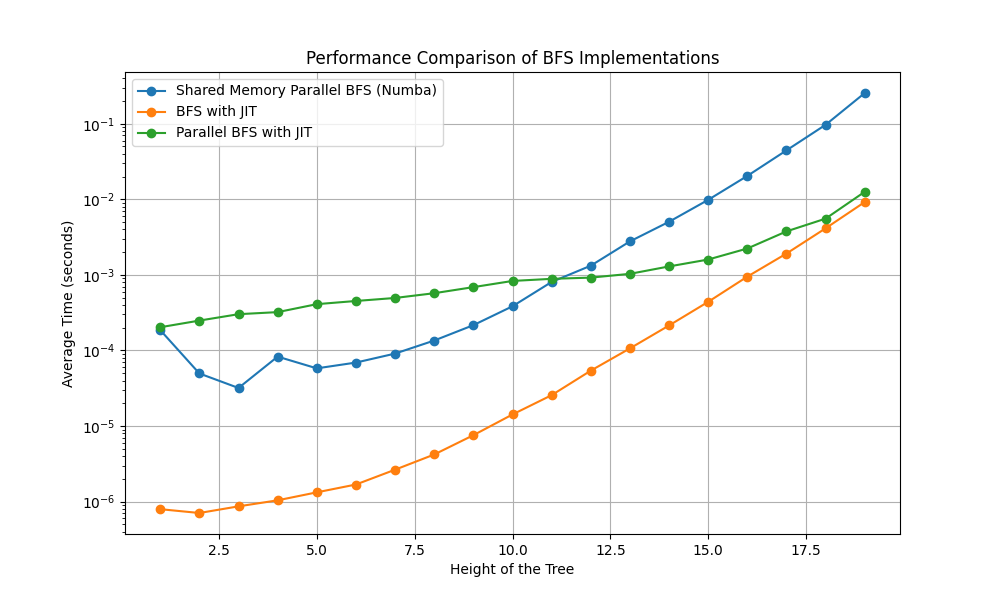
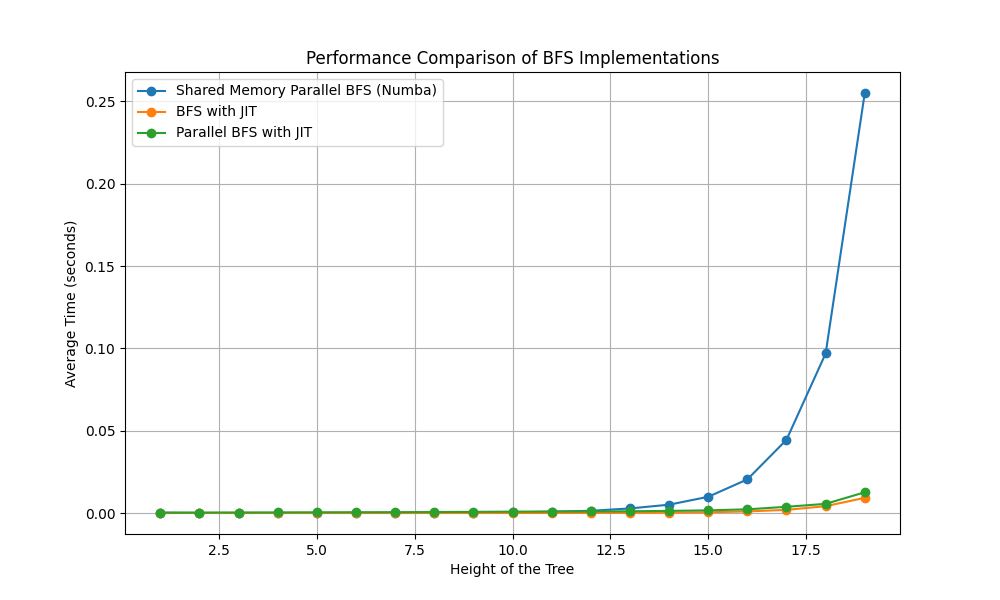
NO

diff --git a/comparison.py b/comparison.py
@@ -69,7 +69,15 @@ if __name__ == "__main__":
         time_avg_parallel_threading = iterator_threading(G, iterations)
         C_dist_mem_results.append((i, float(time_avg_parallel_threading)))
 
-
+    # save reasults to json file
+    import json
+    with open('results/bfs_comparison_results.json', 'w') as f:
+        json.dump({
+            'numba_results': numba_results,
+            'JIT_results': JIT_results,
+            'parallel_JIT_results': parallel_JIT_results,
+            'C_dist_mem_results': C_dist_mem_results
+        }, f, indent=4)
     
     print(f"numba_results: {numba_results} \n")
     print(f"JIT_results: {JIT_results} \n")
